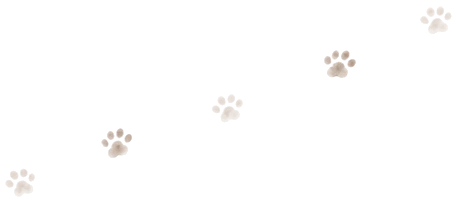
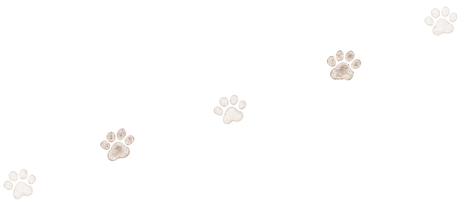
Sharpen home board artwork on Retina displays and test its placement

diff --git a/tests/board-objects.test.ts b/tests/board-objects.test.ts
@@ -1,0 +1,27 @@
+import { describe, expect, it } from 'vitest';
+import { decorationTop } from '../src/lib/board-objects';
+
+describe('decorationTop', () => {
+  const space = { left: 100, right: 300, top: 50 };
+  it('clears the lowest card across both columns and rounds up fractional pixels', () => {
+    const cards = [
+      { left: 80, right: 180, bottom: 172 },
+      { left: 230, right: 340, bottom: 220.25 },
+    ];
+    expect(decorationTop(space, cards)).toBe(187);
+  });
+
+  it('ignores taller cards in adjacent columns, including shared edges', () => {
+    const cards = [
+      { left: 0, right: 100, bottom: 400 },
+      { left: 300, right: 450, bottom: 500 },
+      { left: 100, right: 300, bottom: 150 },
+    ];
+    expect(decorationTop(space, cards)).toBe(116);
+  });
+
+  it('keeps the gutter when the space has no cards below its top edge', () => {
+    expect(decorationTop(space, [])).toBe(16);
+    expect(decorationTop(space, [{ left: 110, right: 200, bottom: 10 }])).toBe(16);
+  });
+});

diff --git a/src/lib/board-objects.ts b/src/lib/board-objects.ts
@@ -1,0 +1,13 @@
+/** Top inset for the artwork, measured from the top of its grid area. */
+export function decorationTop(
+  space: Pick<DOMRect, 'left' | 'right' | 'top'>,
+  cards: readonly Pick<DOMRect, 'left' | 'right' | 'bottom'>[],
+): number {
+  let bottom = space.top;
+  for (const card of cards) {
+    if (card.left < space.right && card.right > space.left) {
+      bottom = Math.max(bottom, card.bottom);
+    }
+  }
+  return Math.ceil(bottom - space.top) + 16;
+}
